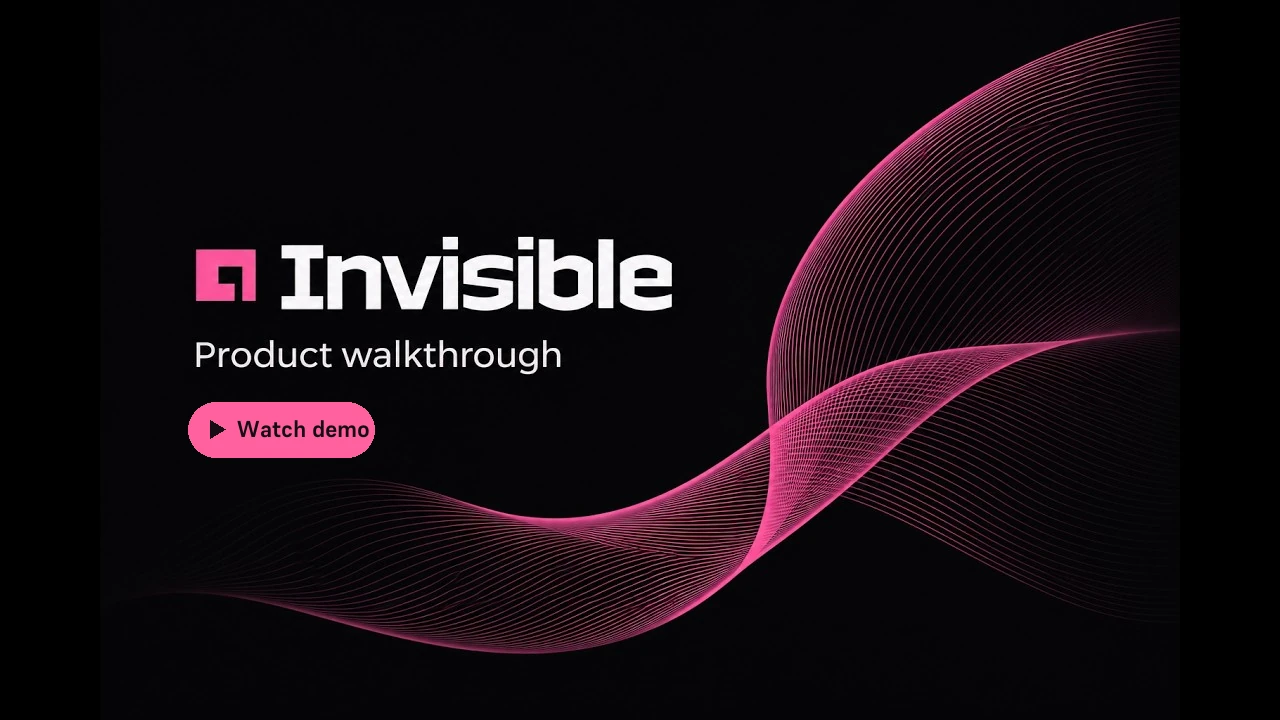
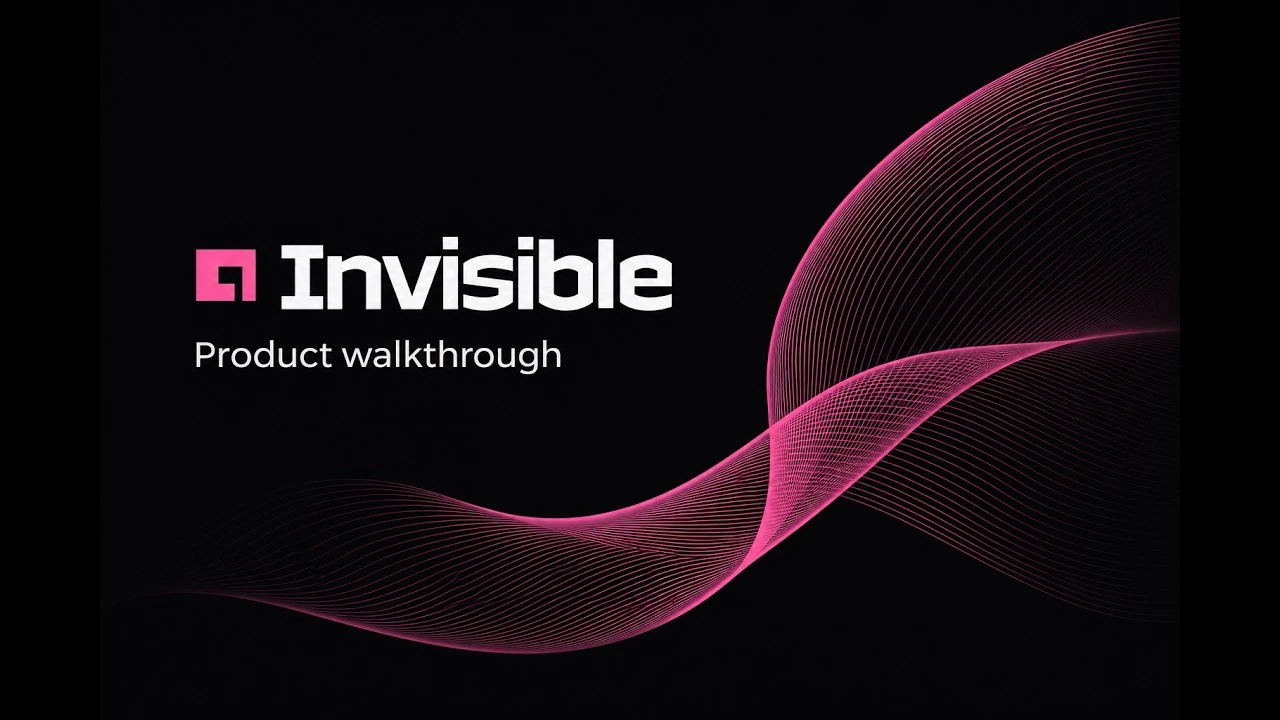
Give the walkthrough play controls room

Changed region(s): [[0.125, 0.55, 0.3125, 0.6417]]

diff --git a/app/docs/guide.css b/app/docs/guide.css
@@ -58,17 +58,26 @@
   border:1px solid var(--iv-line); border-radius:14px; background:#0a090b;
 }
 .iv-guide-player button,.iv-guide-player iframe { display:block; width:100%; height:100%; border:0; }
-.iv-guide-player button { padding:0; background:transparent; cursor:pointer; }
+.iv-guide-player button { position:relative; padding:0; background:transparent; cursor:pointer; }
 .iv-guide-player button:focus-visible { outline:2px solid var(--iv-pink); outline-offset:-4px; }
 .iv-guide .iv-guide-player img:not(.iv-source-mark) {
   width:100%; height:100%; object-fit:cover; border:0; border-radius:0; margin:0;
   transition:filter 180ms ease;
 }
+.iv-guide-play-label {
+  position:absolute; inset:auto auto clamp(12px,5%,24px) clamp(12px,5%,24px);
+  display:inline-flex; align-items:center; gap:9px; min-height:44px; padding:0 18px;
+  color:#170d13; background:var(--iv-pink); border-radius:10px;
+  font:inherit; font-size:.875rem; font-weight:700; line-height:1; white-space:nowrap;
+  transition:background-color 180ms ease;
+}
+.iv-guide-play-label .iv-icon { fill:currentColor; stroke:none; }
 @media (hover:hover) {
-  .iv-guide-player button:hover img { filter:brightness(1.12); }
+  .iv-guide-player button:hover img { filter:brightness(1.08); }
+  .iv-guide-player button:hover .iv-guide-play-label { background:#ff8cba; }
 }
 @media (prefers-reduced-motion:reduce) {
-  .iv-guide .iv-guide-player img:not(.iv-source-mark) { transition:none; }
+  .iv-guide .iv-guide-player img:not(.iv-source-mark),.iv-guide-play-label { transition:none; }
 }
 .iv-guide .iv-guide-video-link {
   display:inline-flex; align-items:center; gap:6px; min-height:44px; margin-top:4px; font-size:.88rem;

diff --git a/app/docs/demo-player.tsx b/app/docs/demo-player.tsx
@@ -2,6 +2,7 @@
 
 import {useEffect,useRef,useState} from 'react';
 
+import Icon from '../interface-icon';
 import {demoVideoId} from './demo-video';
 
 export default function DemoPlayer() {
@@ -24,6 +25,7 @@ export default function DemoPlayer() {
         />
       : <button type="button" onClick={()=>setPlaying(true)} aria-label="Play the Invisible product walkthrough">
           <img src="/readme/video-cover.webp" width="1280" height="720" alt=""/>
+          <span className="iv-guide-play-label"><Icon name="play"/> Play Demo</span>
         </button>}
   </div>;
 }

diff --git a/README.md b/README.md
@@ -14,6 +14,10 @@ See how to compare NEAR projects, inspect the evidence behind a ranking, and ask
 
 [![Watch the Invisible product walkthrough on YouTube](public/readme/video-cover.webp)](https://www.youtube.com/watch?v=fpoosawn0JQ)
 
+<p align="center">
+  <a href="https://www.youtube.com/watch?v=fpoosawn0JQ"><img src="public/readme/link-watch.svg" alt="Watch on YouTube" height="44"></a>
+</p>
+
 [Features](#features) · [Methodology](#methodology) · [Agent setup](#agent-setup) · [Roadmap](#roadmap) · [Local setup](#local-setup) · [Deployment](#deployment)
 
 ## Features
